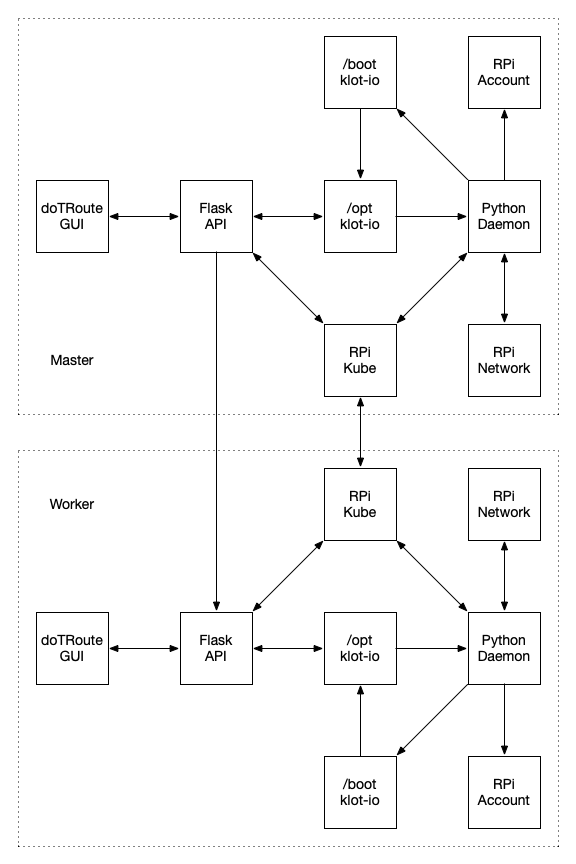
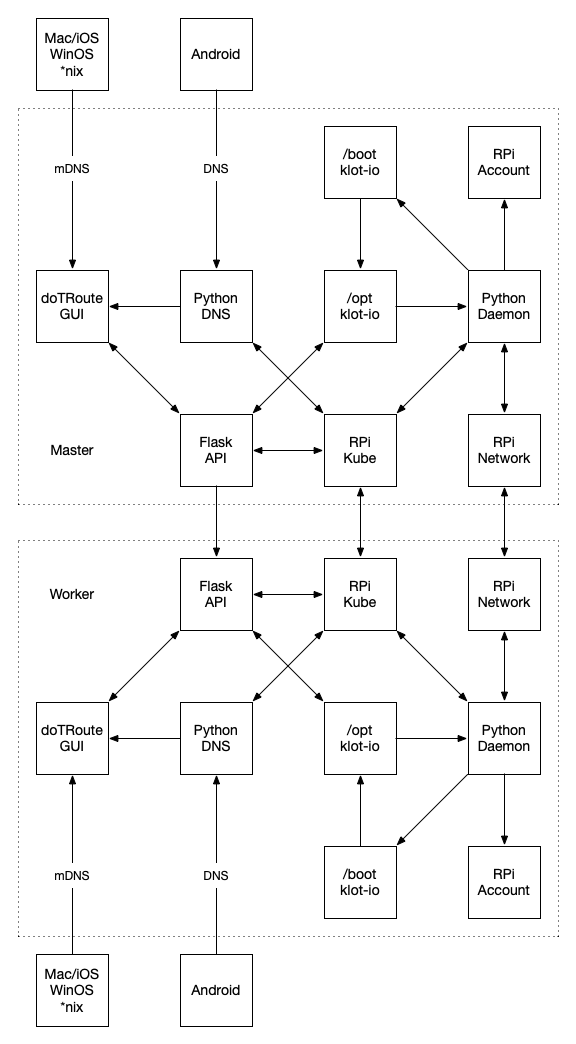
Updated docs

diff --git a/www/overview.html b/www/overview.html
@@ -1,14 +1,14 @@
 {{#def.Header}}
 <div class="uk-overflow-container">
-    
+
     <h1>How the &*%$#! Does This Thing Work?</h1>
 
     <h2>Proununciation</h2>
 
     <p>
-        First things first: how to say "klot.io".  
+        First things first: how to say "klot.io".
         It's pronounced "clout-i-o" not "clot-ee-eye-ee-eye-oh".
-        A common misconception but imagine the sheer embarassment and horror from 
+        A common misconception but imagine the sheer embarassment and horror from
         misprouncing the latest and greatest open source project that no one's ever heard of.
         That's almost as bad as mispelling the first subheading of an instructional page.
     </p>
@@ -21,7 +21,7 @@
 
     <p>
         That's Latin for "cover your butt." This is brand new, not secure, and by not means production ready.
-        I've worked in Magnetics, Electrical, Software, Site Reliability, and Infrastructure Engineering.  
+        I've worked in Magnetics, Electrical, Software, Site Reliability, and Infrastructure Engineering.
         There are many methods used here I would NEVER use in a real environment at a real company.
         (Hey, let's log in but not bother with TLS because REASONS)
         Eventually, we can lock things down with certs and what not, but for now, consider this experimental.
@@ -56,7 +56,7 @@
 
     <p>
         The SD card is the Raspberry Pi's hard drive.
-        When we install an image onto the SD card, we install an operating system, like installing Window ME from floppy disks. 
+        When we install an image onto the SD card, we install an operating system, like installing Window ME from floppy disks.
         The operating system we're using is just Raspbian with some stuff added.
         Raspbian is a variant of Debian, which is a distribution of Linux.
     </p>
@@ -69,25 +69,25 @@
     <p>
         In our case, we're using our Raspberry Pi's like servers, like a block of big ol' non descript buildings.
         Imagine the giant servers that run the Internet, making clouds, serving websites, and what have you.
-        Our Raspberry Pi's are just miniature versions of those. 
+        Our Raspberry Pi's are just miniature versions of those.
     </p>
 
     <h2>Kubernetes</h2>
 
     <p>
-        Kubernetes is a Container Cloud Technology. 
+        Kubernetes is a Container Cloud Technology.
         As they say, there is no Cloud - it's just someone else's computer (yours in this case).
         What they mean is that a Cloud is just a bunch of computers, which "rent out" space.
     </p>
 
     <p>
-        Think of it like apartment complex vs. a house. 
+        Think of it like apartment complex vs. a house.
     </p>
 
     <p>
         With a (single family) house there's one building, one residence.
         The occupants are responsible for all aspects, like power, water, sewer (well, in my house where I have a well and septic system, and have to talk to the power company from time to time).
-        Moving in or out is a big deal because you have to set all sorts of stuff up, get inspections, etc. 
+        Moving in or out is a big deal because you have to set all sorts of stuff up, get inspections, etc.
     </p>
 
     <p>
@@ -97,7 +97,7 @@
     </p>
 
     <p>
-        Originally, Clouds were done with Virtual Machines, not Containers. 
+        Originally, Clouds were done with Virtual Machines, not Containers.
     </p>
 
     <p>
@@ -112,11 +112,11 @@
         This is done through interacting directly with the Operating System the host machine, not the hardware, using something called Docker.
         Think of a Container occupying a furnished apartment.
         There's already beds, a washing machine, shared storage spaces, even a pool (of resources) that can be shared, like  memory and processing.
-        You can even set limits on how much each tenant can use. 
+        You can even set limits on how much each tenant can use.
     </p>
 
     <p>
-        We're using Kubernetes, a Container Cloud, because it's even easier to move in and out of a furnished apartment vs. an unfurnished one. 
+        We're using Kubernetes, a Container Cloud, because it's even easier to move in and out of a furnished apartment vs. an unfurnished one.
     </p>
 
     <h2>Services</h2>
@@ -132,22 +132,22 @@
             <li>DNS - The mini DNS server for when mDNS isn't sufficient.</li>
             <li>/boot - A back door of control directly from your SD card.</li>
         </ul>
-        Each one of these is running / working on every Raspberry Pi. 
+        Each one of these is running / working on every Raspberry Pi.
     </p>
 
     <p>
-        Kubernetes is Cluster technology, meaning it's a process running on serveral servers, all working together. 
+        Kubernetes is Cluster technology, meaning it's a process running on serveral servers, all working together.
         This doesn't happen automatically (yet?).
         We have to install Docker and Kubernetes and then start Kubernetes on each Pi, telling each what they're supposed to do.
-        Lucky for you, the Klot I/O image you burned already has Kubernetes and Docker installed. 
+        Lucky for you, the Klot I/O image you burned already has Kubernetes and Docker installed.
         Also lucky for you, <a href="https://github.com/klot-io/pi-setup/blob/master/Install.md">Install</a> walks you through the process of telling the Contractors how you want your cluster configured.
     </p>
 
     <p>
         The Master Node is like the office of the apartment complex.
-        Worker Nodes are like the pure rental units of the apartment complex. 
-        The Master Node responsible for moving tenants in and out of the cloud, signing leases, figuring out building to move into, giving them keys, etc. 
-        The Master Node is also responsibile for making sure the apartment buildings are up to snuff, taking a building out of "rentability" if it's not working. 
+        Worker Nodes are like the pure rental units of the apartment complex.
+        The Master Node responsible for moving tenants in and out of the cloud, signing leases, figuring out building to move into, giving them keys, etc.
+        The Master Node is also responsibile for making sure the apartment buildings are up to snuff, taking a building out of "rentability" if it's not working.
         Usually tenants don't live here because the Master Node is usually pretty busy, but they can (the Redis App allows for it).
     </p>
 
@@ -176,21 +176,21 @@
                 </ul>
             </li>
         </ul>
-        This is also where the Node is renamed.  
-        A Master node becomes (cluster)-klot-io.local and each rental becomes (name)-(cluster)-klot-io.local.  
-        Once renamed, they become addressible from your entire network, like getting an address from the post office. 
+        This is also where the Node is renamed.
+        A Master node becomes (cluster)-klot-io.local and each rental becomes (name)-(cluster)-klot-io.local.
+        Once renamed, they become addressible from your entire network, like getting an address from the post office.
         If you're wondering, yes, you can can have multiple clusters on the same network.
     </p>
 
     <p>
-        Like contractors turning a block of commerical buildings into an apartment complex, the Services in the <a href="https://github.com/klot-io/pi-setup/blob/master/Install.md">Install</a> process turns our generic Raspberry Pi's into a functional, addressible Kubernetes cluster. 
+        Like contractors turning a block of commerical buildings into an apartment complex, the Services in the <a href="https://github.com/klot-io/pi-setup/blob/master/Install.md">Install</a> process turns our generic Raspberry Pi's into a functional, addressible Kubernetes cluster.
     </p>
 
     <h2>Apps</h2>
 
     <p>
         Functionality is typically deployed on Kubernetes using Manifests in a Declarative style.
-        Declarative means we tell Kubernetes what we exepct to run where, and it changes itself to match our expectations. 
+        Declarative means we tell Kubernetes what we exepct to run where, and it changes itself to match our expectations.
         Resources are our expectations.  We put Resources in Kubernetes and it uses them as a goal.
         Manifests are just Resources in file form, usually YAML, and we usually send these files to Kubernetes to create or change Resources.
         In this case, we're using our Services like Movers, figuring what we expect, and transporting that to our apartment complex.
@@ -205,7 +205,7 @@
             <li>Other Apps, or really type of Apps, required by this App.</li>
             <li>How to give Users access to the App.</li>
         </ul>
-        For those in the know with K-town (what I've just decided to call Kubernetes), the App Custom Resource Definition is created when the Master Node is spun up. 
+        For those in the know with K-town (what I've just decided to call Kubernetes), the App Custom Resource Definition is created when the Master Node is spun up.
     </p>
 
     <p>
@@ -220,11 +220,10 @@
             <li>Daemon creates a URL for us to access Speech App.</li>
         </ol>
         And with that, we tell Kubernetes how everything should be and it gets to work on that.
-        Heading over to Pods showed us how it was it was going.
     </p>
 
     <p>
-        Like movers reading manifests and executing work order, the Services in the <a href="https://github.com/klot-io/pi-setup/blob/master/Apps.md">Apps</a> process moved functionality into our Kubernetes apartment complex. 
+        Like movers reading manifests and executing work order, the Services in the <a href="https://github.com/klot-io/pi-setup/blob/master/Apps.md">Apps</a> process moved functionality into our Kubernetes apartment complex.
     </p>
 
     <h2>Culus Faciem Tuam</h2>

diff --git a/www/architecture.html b/www/architecture.html
@@ -1,6 +1,6 @@
 {{#def.Header}}
 <div class="uk-overflow-container">
-    
+
     <h1>Magnets are Miracles</h1>
 
     <h2>Design</h2>
@@ -16,6 +16,7 @@
                 <li>Python Daemon - implements configuration</li>
                 <li>Flask API - indicates status and accepts changes</li>
                 <li>doTRoute GUI - easy to use interface for regular folks</li>
+                <li>Python DNS - mimcks mDNS for devices that don't supprt it</li>
             </ul>
         </li>
         <li>
